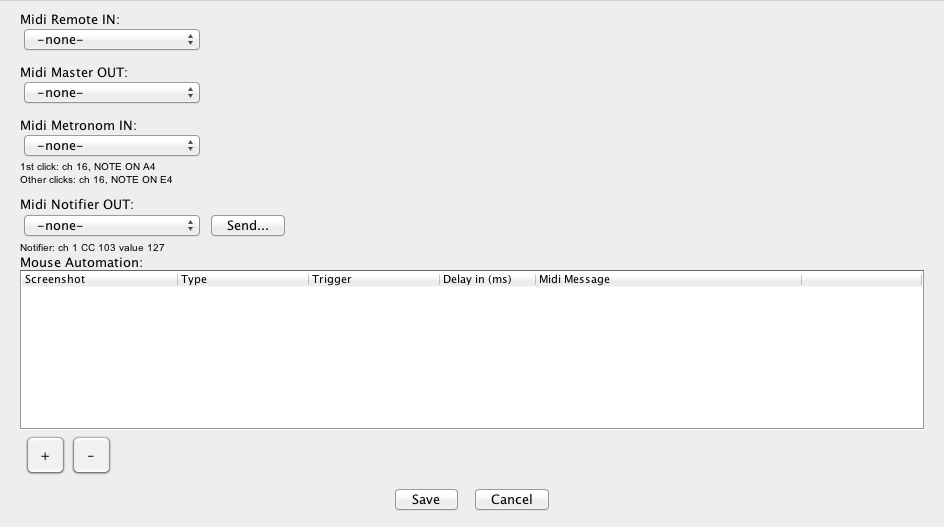
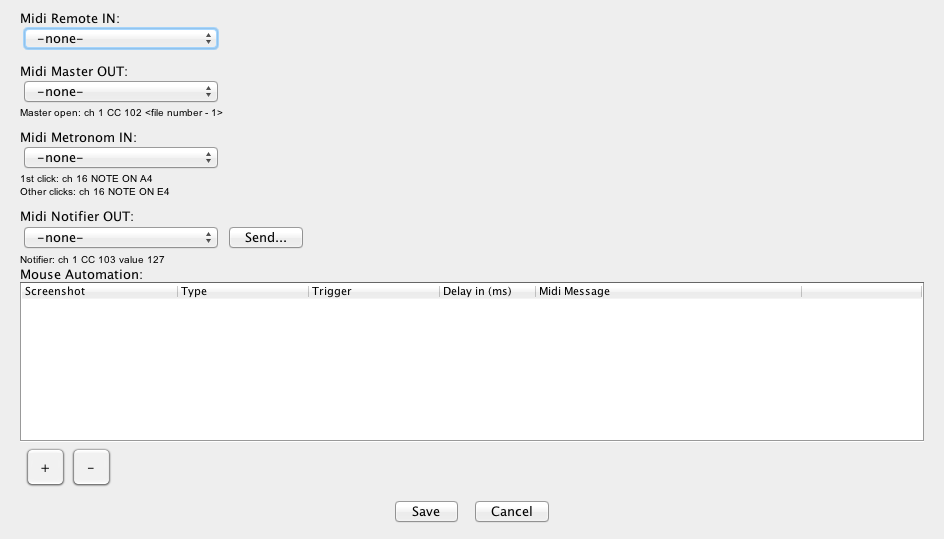
added test for master opening

diff --git a/Midi Automator Tests/src/de/tieffrequent/midi/automator/tests/TestMidiRemoteOpen.java b/Midi Automator Tests/src/de/tieffrequent/midi/automator/tests/TestMidiRemoteOpen.java
@@ -1,0 +1,81 @@
+package de.tieffrequent.midi.automator.tests;
+
+import static org.junit.Assert.fail;
+
+import javax.sound.midi.InvalidMidiDataException;
+import javax.sound.midi.MidiUnavailableException;
+import javax.sound.midi.ShortMessage;
+
+import org.junit.Test;
+import org.sikuli.script.FindFailed;
+
+import de.tieffrequent.midi.automator.tests.utils.GUIAutomations;
+import de.tieffrequent.midi.automator.tests.utils.MidiUtils;
+
+public class TestMidiRemoteOpen extends GUITest {
+
+	private String deviceName;
+	private String deviceScreenshot;
+	private int messageType = ShortMessage.CONTROL_CHANGE;
+	private int channel = 1;
+	private int controlNo = 102;
+
+	public TestMidiRemoteOpen() {
+		if (System.getProperty("os.name").equals("Mac OS X")) {
+			deviceName = "Bus 1";
+			deviceScreenshot = "Bus_1.png";
+		}
+
+		if (System.getProperty("os.name").equals("Windows 7")) {
+			deviceName = "LoopBe Internal MIDI";
+			deviceScreenshot = "LoopBe_Internal_MIDI.png";
+		}
+	}
+
+	@Test
+	public void filesShouldBeOpened() {
+
+		try {
+			// set MIDI IN Remote device
+			GUIAutomations.setPreferencesComboBox(
+					"combo_box_midi_remote_in.png", deviceScreenshot);
+
+			// add files
+			GUIAutomations.addFile("Hello World 1", currentPath
+					+ "/testfiles/Hello World 1.rtf");
+			GUIAutomations.addFile("Hello World 2", currentPath
+					+ "/testfiles/Hello World 2.rtf");
+
+			// open files by learned midi master message
+			Thread.sleep(1000);
+			MidiUtils.sendMidiMessage(deviceName, messageType, channel,
+					controlNo, 0);
+			if (!GUIAutomations.checkIfFileOpened("Hello_World_1_RTF.png",
+					"Hello_World_1_RTF_inactive.png")) {
+				throw new FindFailed("Hello World 1.rtf did not open");
+			}
+			Thread.sleep(1000);
+			MidiUtils.sendMidiMessage(deviceName, messageType, channel,
+					controlNo, 1);
+			if (!GUIAutomations.checkIfFileOpened("Hello_World_2_RTF.png",
+					"Hello_World_2_RTF_inactive.png")) {
+				throw new FindFailed("Hello World 2.rtf did not open");
+			}
+
+		} catch (FindFailed e) {
+			fail(e.toString());
+		} catch (InterruptedException | MidiUnavailableException
+				| InvalidMidiDataException e) {
+			e.printStackTrace();
+		} finally {
+			// cleanup
+			try {
+				GUIAutomations.focusMidiAutomator();
+				GUIAutomations.setPreferencesComboBox(
+						"combo_box_midi_remote_in.png", "-none-.png");
+			} catch (FindFailed e) {
+				e.printStackTrace();
+			}
+		}
+	}
+}

diff --git a/Midi Automator Tests/src/de/tieffrequent/midi/automator/tests/AllTests.java b/Midi Automator Tests/src/de/tieffrequent/midi/automator/tests/AllTests.java
@@ -15,7 +15,7 @@ import de.tieffrequent.midi.automator.tests.utils.SikuliAutomation;
 		TestMoveUpFile.class, TestMoveDownFile.class, TestButtonNextFile.class,
 		TestButtonPrevFile.class, TestMidiLearnNext.class,
 		TestMidiLearnPrev.class, TestMidiLearnList.class,
-		TestCloseMidiAutomator.class })
+		TestMidiRemoteOpen.class, TestCloseMidiAutomator.class })
 public class AllTests extends SikuliAutomation {
 
 	private static Region programRegion;

diff --git a/Midi Automator Tests/src/de/tieffrequent/midi/automator/tests/TestMidiLearnList.java b/Midi Automator Tests/src/de/tieffrequent/midi/automator/tests/TestMidiLearnList.java
@@ -36,7 +36,7 @@ public class TestMidiLearnList extends GUITest {
 		}
 	}
 
-	// @Test
+	@Test
 	public void midiLearnShouldBeCanceled() {
 		try {
 			GUIAutomations.addFile("Hello World 1", currentPath
@@ -52,7 +52,7 @@ public class TestMidiLearnList extends GUITest {
 		}
 	}
 
-	// @Test
+	@Test
 	public void midiShouldBeUnlearned() {
 		try {
 			// set MIDI IN Remote device
